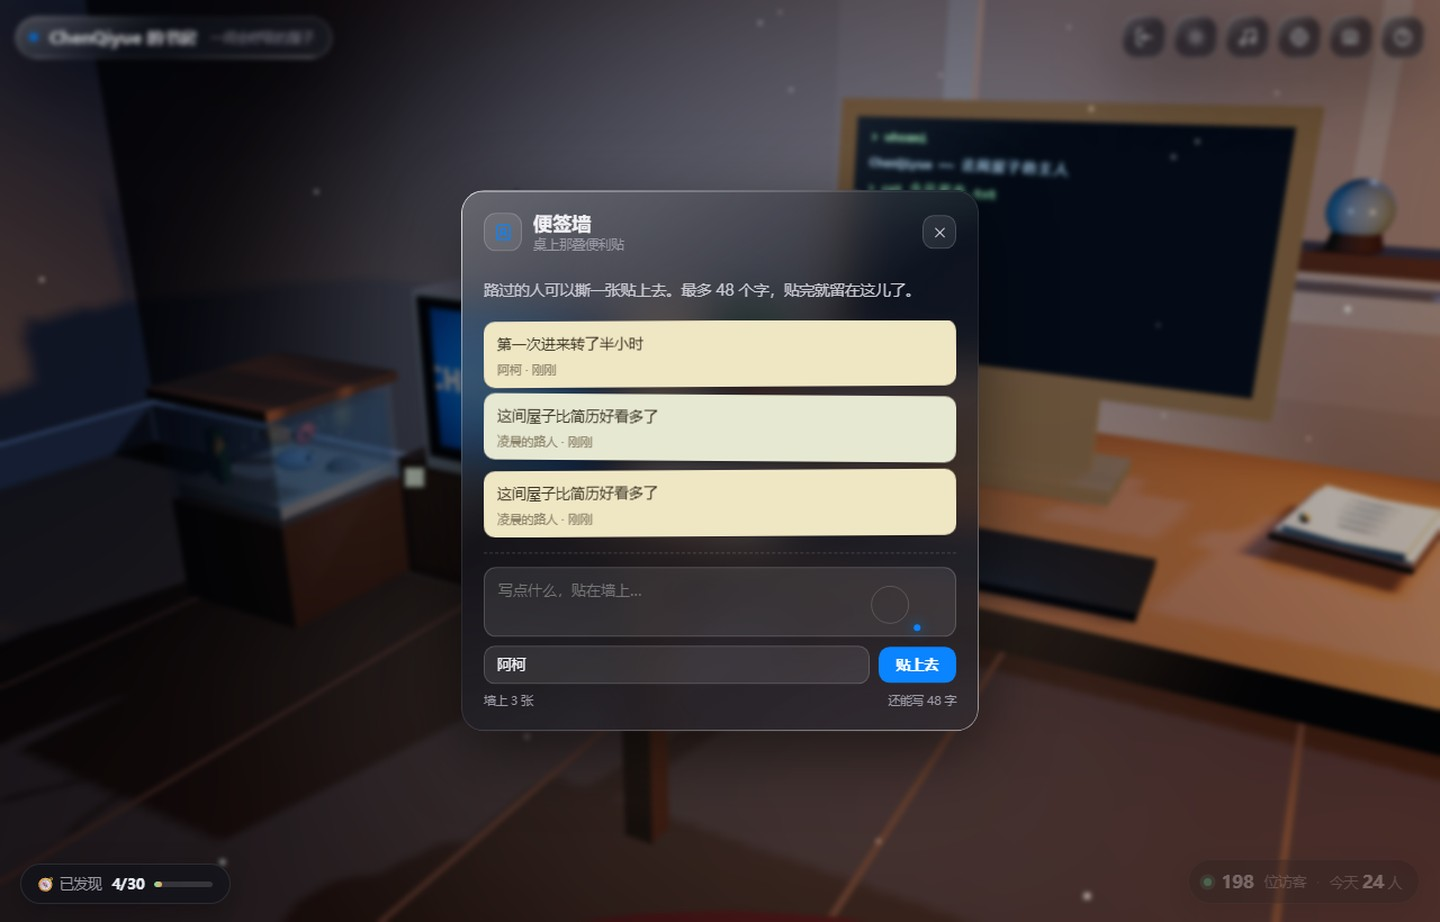
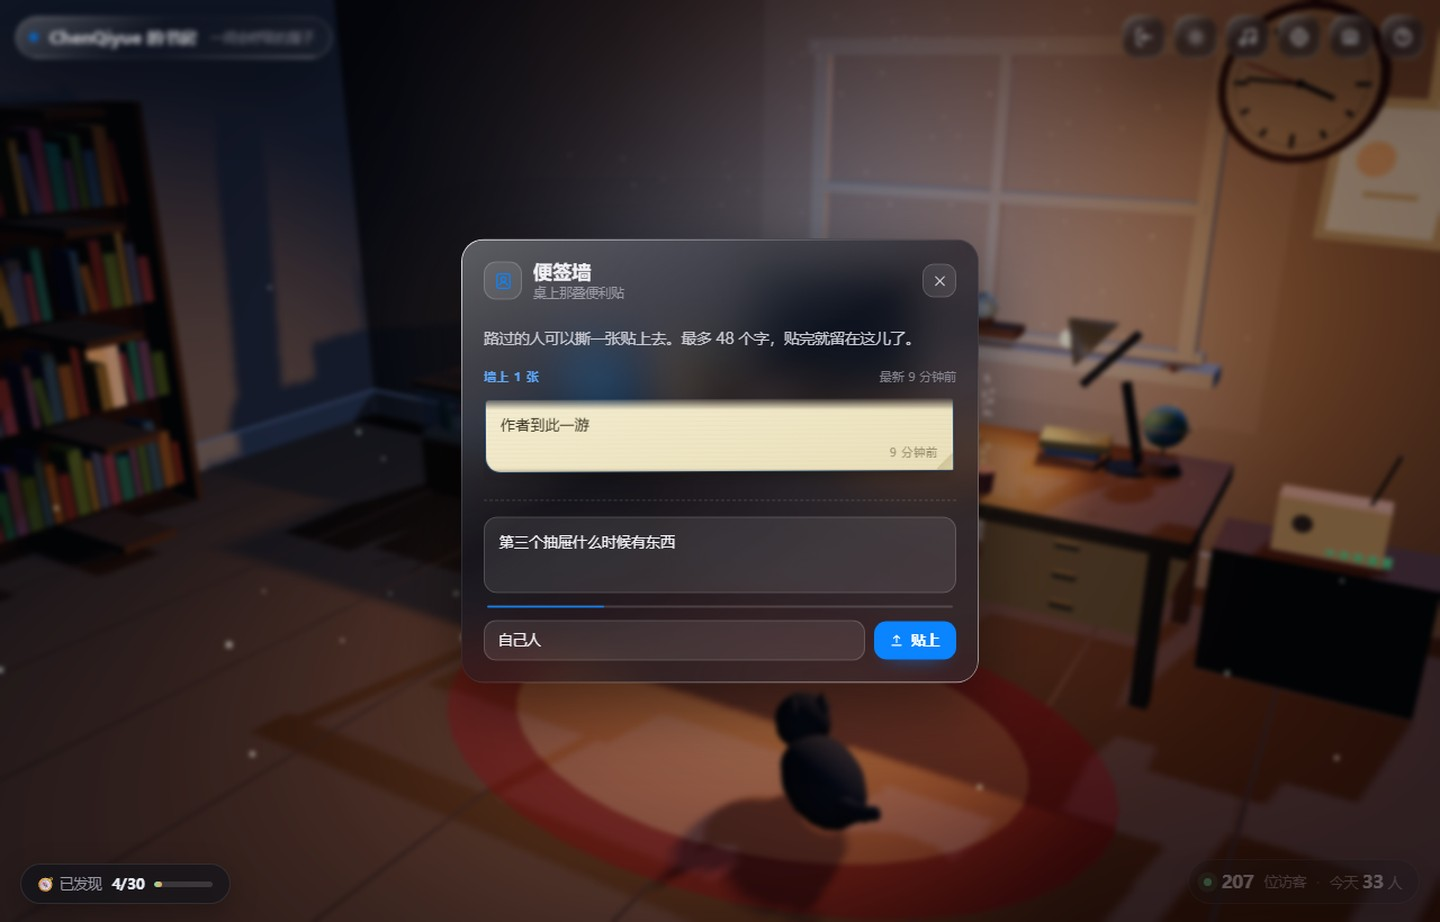
Rebuild the note wall
Fix the bug that made a saved note look like a network failure: the thank-you
path called a function that no longer existed, so every successful post fell
into the catch block. The wall itself now reads as paper - torn corner, faint
rule lines, name set small under the text - and the composer carries a fill
bar instead of a character counter.

Scrollbars are thinner and neutral, only taking colour on hover, and
index.html is served no-cache so a fresh deploy is never masked by an old page.

diff --git a/index.html b/index.html
@@ -135,7 +135,16 @@ button{font:inherit; color:inherit; background:none; border:0; cursor:pointer;}
 }
 #panel-close:hover{background:var(--ctl-hi); transform:rotate(90deg);}
 #panel-close svg{width:13px; height:13px; stroke:var(--ink-soft); stroke-width:2; fill:none; stroke-linecap:round;}
-#panel-flip{perspective:900px; overflow:hidden auto; padding:10px 20px 20px; scrollbar-width:thin;}
+#panel-flip{
+  perspective:900px; overflow:hidden auto; padding:10px 20px 20px;
+  scrollbar-width:thin; scrollbar-color:var(--ctl-line) transparent;
+  -webkit-mask-image:linear-gradient(180deg,transparent 0,#000 8px,#000 calc(100% - 8px),transparent 100%);
+  mask-image:linear-gradient(180deg,transparent 0,#000 8px,#000 calc(100% - 8px),transparent 100%);
+}
+#panel-flip::-webkit-scrollbar{width:6px;}
+#panel-flip::-webkit-scrollbar-track{background:transparent;}
+#panel-flip::-webkit-scrollbar-thumb{background:var(--ctl-line); border-radius:99px;}
+#panel-flip::-webkit-scrollbar-thumb:hover{background:var(--muted);}
 #panel-body{transform-origin:50% 0; transition:transform .32s cubic-bezier(.4,0,.2,1), opacity .32s;}
 #panel-flip.flip-out #panel-body{transform:rotateX(-72deg); opacity:0;}
 #panel-flip.flip-in #panel-body{animation:flipIn .38s cubic-bezier(.22,1,.36,1);}
@@ -172,36 +181,100 @@ button{font:inherit; color:inherit; background:none; border:0; cursor:pointer;}
 .book em{font-style:normal; color:var(--accent-ink); font-weight:600; flex:0 0 auto;}
 .book span{color:var(--ink-soft); font-size:12px; margin-left:auto; text-align:right;}
 /* 便签墙 */
-.note-list{display:flex; flex-direction:column; gap:8px; margin:10px 0 14px; max-height:34vh; overflow-y:auto; -webkit-overflow-scrolling:touch;}
+.nw-stat{display:flex; align-items:center; gap:8px; margin:0 0 11px; font-size:10.5px;
+  letter-spacing:.14em; text-transform:uppercase; color:var(--muted);}
+.nw-stat b{color:var(--accent-ink); font-weight:600; letter-spacing:.08em;}
+.nw-stat i{font-style:normal; margin-left:auto; text-transform:none; letter-spacing:.04em; opacity:.8;}
+.nw-wall{
+  position:relative; margin:0 0 14px; padding:2px 3px 2px 2px;
+  max-height:min(32vh,215px); overflow-y:auto; overscroll-behavior:contain;
+  scrollbar-width:thin; scrollbar-color:rgba(140,140,160,.35) transparent;
+  -webkit-mask-image:linear-gradient(180deg,transparent 0,#000 11px,#000 calc(100% - 14px),transparent 100%);
+  mask-image:linear-gradient(180deg,transparent 0,#000 11px,#000 calc(100% - 14px),transparent 100%);
+}
+.nw-wall::before{content:""; position:absolute; inset:0 6px 0 0; pointer-events:none; border-radius:8px;
+  box-shadow:inset 0 12px 14px -14px rgba(0,0,0,.55), inset 0 -12px 14px -14px rgba(0,0,0,.45);}
+.nw-wall::-webkit-scrollbar{width:6px;}
+.nw-wall::-webkit-scrollbar-track{background:transparent;}
+.nw-wall::-webkit-scrollbar-thumb{background:rgba(140,140,160,.32); border-radius:99px;}
+.nw-wall::-webkit-scrollbar-thumb:hover{background:rgba(140,140,160,.6);}
+
 .note-card{
-  padding:10px 12px 9px; border-radius:10px; background:#efe6c4; color:#3a3323;
-  box-shadow:0 1px 0 rgba(0,0,0,.06), 0 6px 14px -10px rgba(0,0,0,.5);
-  transform:rotate(-.35deg); animation:noteIn .32s cubic-bezier(.34,1.4,.64,1) both;
+  position:relative; padding:11px 13px 9px; margin:0 0 9px; border-radius:3px 3px 3px 13px;
+  background:
+    repeating-linear-gradient(0deg, rgba(150,132,80,.045) 0 1px, transparent 1px 4px),
+    linear-gradient(167deg,#f4ecd0 0%,#e9dfb9 100%);
+  box-shadow:0 1px 0 rgba(255,255,255,.75) inset, 0 1px 2px rgba(24,20,8,.10),
+             0 14px 26px -20px rgba(24,20,8,.95);
+  color:#3b3423; transform:rotate(-.3deg);
+  animation:nwIn .44s cubic-bezier(.22,1,.36,1) both;
+  transition:transform .26s cubic-bezier(.34,1.4,.64,1), box-shadow .26s;
 }
-.note-card:nth-child(even){transform:rotate(.4deg); background:#e6e8d2;}
-.note-card b{display:block; font-size:13px; line-height:1.6; font-weight:500; word-break:break-word;}
-.note-card span{display:block; font-size:10.5px; color:#8a8168; margin-top:5px; letter-spacing:.02em;}
-@keyframes noteIn{from{opacity:0; transform:translateY(6px) rotate(-1deg) scale(.97);}}
-.note-empty{font-size:12.5px; color:var(--muted); padding:14px 4px; text-align:center;}
-.note-form{display:flex; flex-direction:column; gap:8px; padding-top:12px; border-top:1px dashed var(--ctl-line);}
-.note-form textarea{
-  width:100%; min-height:56px; resize:none; padding:10px 12px; border-radius:11px; font:inherit; font-size:13px;
-  background:var(--ctl); color:var(--ink); border:1px solid var(--ctl-line); outline:none; line-height:1.55;
+.note-card:hover{
+  transform:rotate(0deg) translateY(-1px);
+  box-shadow:0 1px 0 rgba(255,255,255,.8) inset, 0 1px 2px rgba(24,20,8,.12),
+             0 18px 30px -20px rgba(24,20,8,.9);
 }
-.note-form textarea:focus{border-color:var(--accent);}
-.note-row{display:flex; gap:8px; align-items:center;}
-.note-row input{
-  flex:1 1 auto; min-width:0; padding:8px 11px; border-radius:10px; font:inherit; font-size:12.5px;
+.note-card:nth-child(even){
+  transform:rotate(.32deg);
+  background:
+    repeating-linear-gradient(0deg, rgba(150,132,80,.045) 0 1px, transparent 1px 4px),
+    linear-gradient(167deg,#f2f0da 0%,#e5e4c2 100%);
+}
+.note-card:nth-child(3n){transform:rotate(-.55deg);}
+.note-card::after{
+  content:""; position:absolute; right:0; bottom:0; width:15px; height:15px; border-radius:0 0 0 3px;
+  background:linear-gradient(135deg, rgba(255,255,255,0) 45%, rgba(186,172,124,.5) 50%, rgba(219,208,164,.98) 100%);
+}
+.note-card b{display:block; font-size:13px; line-height:1.72; font-weight:500; letter-spacing:.01em; word-break:break-word;}
+.nc-meta{display:flex; align-items:center; gap:7px; margin-top:8px; font-size:10px;
+  letter-spacing:.09em; color:#8d8465;}
+.nc-meta u{text-decoration:none; border-bottom:1px solid rgba(141,132,101,.42); padding-bottom:1px; max-width:60%; overflow:hidden; text-overflow:ellipsis; white-space:nowrap;}
+.nc-meta em{font-style:normal; margin-left:auto; opacity:.85;}
+.note-card.is-new{box-shadow:0 0 0 1px rgba(10,132,255,.34), 0 1px 2px rgba(24,20,8,.12), 0 16px 28px -20px rgba(24,20,8,.95);}
+@keyframes nwIn{from{opacity:0; transform:translateY(11px) rotate(-1.4deg) scale(.97);}}
+
+.nw-empty{display:flex; flex-direction:column; align-items:center; gap:9px; padding:28px 12px 30px;
+  border:1px dashed var(--ctl-line); border-radius:13px; background:var(--ctl);
+  color:var(--muted); font-size:12.5px; letter-spacing:.02em;}
+.nw-empty svg{width:26px; height:26px; stroke:var(--muted); fill:none; stroke-width:1.3; opacity:.6;}
+.nw-retry{
+  margin-top:2px; padding:6px 14px; border-radius:99px; font:inherit; font-size:11.5px; cursor:pointer;
+  background:var(--ctl-hi); color:var(--ink-soft); border:1px solid var(--ctl-line);
+  transition:border-color .2s, color .2s;
+}
+.nw-retry:hover{border-color:var(--accent); color:var(--accent-ink);}
+
+.nw-form{padding-top:14px; border-top:1px dashed var(--ctl-line);}
+.nw-field{position:relative;}
+.nw-field textarea{
+  width:100%; min-height:58px; resize:none; padding:11px 13px 13px; border-radius:12px;
+  font:inherit; font-size:13px; line-height:1.62; background:var(--ctl); color:var(--ink);
+  border:1px solid var(--ctl-line); outline:none;
+  transition:border-color .2s, background-color .2s;
+}
+.nw-field textarea:focus{border-color:var(--accent); background:var(--ctl-hi);}
+.nw-bar{height:2px; margin:7px 3px 0; border-radius:99px; background:var(--ctl-line); overflow:hidden;}
+.nw-bar i{display:block; height:100%; width:0; border-radius:99px; background:var(--accent);
+  transition:width .22s cubic-bezier(.4,0,.2,1), background-color .2s;}
+.nw-row{display:flex; gap:8px; align-items:center; margin-top:11px;}
+.nw-row input{
+  flex:1 1 auto; min-width:0; padding:9px 12px; border-radius:11px; font:inherit; font-size:12.5px;
   background:var(--ctl); color:var(--ink); border:1px solid var(--ctl-line); outline:none;
+  transition:border-color .2s;
 }
-.note-row input:focus{border-color:var(--accent);}
-.note-row button{
-  flex:0 0 auto; padding:8px 16px; border-radius:10px; font:inherit; font-size:12.5px; font-weight:600; cursor:pointer;
-  background:var(--accent); color:#fff; border:0; transition:transform .18s, opacity .2s;
+.nw-row input:focus{border-color:var(--accent);}
+.nw-send{
+  flex:0 0 auto; display:inline-flex; align-items:center; gap:6px; padding:9px 15px 9px 13px;
+  border-radius:11px; font:inherit; font-size:12.5px; font-weight:600; cursor:pointer;
+  background:var(--accent); color:#fff; border:0;
+  box-shadow:0 8px 18px -12px var(--accent);
+  transition:transform .18s cubic-bezier(.34,1.56,.64,1), opacity .2s, box-shadow .2s;
 }
-.note-row button:hover{transform:translateY(-1px);}
-.note-row button:disabled{opacity:.5; cursor:default; transform:none;}
-.note-foot{display:flex; justify-content:space-between; font-size:10.5px; color:var(--muted);}
+.nw-send svg{width:14px; height:14px; fill:none; stroke:#fff; stroke-width:1.9; stroke-linecap:round; stroke-linejoin:round;}
+.nw-send:hover{transform:translateY(-1px); box-shadow:0 12px 22px -13px var(--accent);}
+.nw-send:active{transform:translateY(0) scale(.98);}
+.nw-send:disabled{opacity:.45; cursor:default; transform:none; box-shadow:none;}
 /* 抽屉 */
 .drw{display:block; margin:0 0 12px; border-radius:12px; overflow:hidden; background:var(--ctl); border:1px solid var(--ctl-line);}
 .drw img{display:block; width:100%; height:auto; background:#0b0d12;}
@@ -695,13 +768,16 @@ body.warp-back #site{
 @keyframes slide{to{transform:translateX(-50%);}}
 
 /* ---------- 自定义滚动条 ---------- */
-#site::-webkit-scrollbar{width:10px;}
+#site{scrollbar-width:thin; scrollbar-color:rgba(128,128,148,.30) transparent;}
+#site::-webkit-scrollbar{width:11px;}
 #site::-webkit-scrollbar-track{background:transparent;}
 #site::-webkit-scrollbar-thumb{
-  background:linear-gradient(180deg, rgba(10,132,255,.55), rgba(255,176,102,.5));
-  border-radius:99px; border:3px solid transparent; background-clip:content-box;
+  background:linear-gradient(180deg, rgba(128,128,148,.34), rgba(128,128,148,.24));
+  border-radius:99px; border:4px solid transparent; background-clip:content-box;
+  transition:background .2s;
 }
-#site::-webkit-scrollbar-thumb:hover{background:linear-gradient(180deg, rgba(10,132,255,.85), rgba(255,176,102,.8)); background-clip:content-box;}
+#site:hover::-webkit-scrollbar-thumb{background:linear-gradient(180deg, rgba(128,128,148,.46), rgba(128,128,148,.32)); background-clip:content-box;}
+#site::-webkit-scrollbar-thumb:hover{background:linear-gradient(180deg, rgba(10,132,255,.55), rgba(255,176,102,.5)); background-clip:content-box;}
 
 /* ---------- 门口"镜头前置"：滚到大门时门变大变亮 ---------- */
 #door-big{
@@ -2319,14 +2395,17 @@ const PANELS={
     title:"便签墙", sub:"桌上那叠便利贴", ico:ICONS.about,
     html(){
       return `<p class="p-lead">路过的人可以撕一张贴上去。最多 48 个字，贴完就留在这儿了。</p>
-        <div class="note-list" id="note-list"><div class="note-empty">正在把墙上的便签取下来…</div></div>
-        <div class="note-form">
-          <textarea id="note-text" maxlength="48" placeholder="写点什么，贴在墙上…"></textarea>
-          <div class="note-row">
-            <input id="note-name" maxlength="12" placeholder="留个名字（可不填）">
-            <button id="note-send">贴上去</button>
+        <div class="nw-stat"><b id="note-total">墙上 —</b><i id="note-latest"></i></div>
+        <div class="nw-wall" id="note-list"></div>
+        <div class="nw-form">
+          <div class="nw-field">
+            <textarea id="note-text" maxlength="48" placeholder="写点什么，贴在墙上…"></textarea>
+            <div class="nw-bar"><i id="note-bar"></i></div>
           </div>
-          <div class="note-foot"><span id="note-total"></span><span id="note-count"></span></div>
+          <div class="nw-row">
+            <input id="note-name" maxlength="12" placeholder="署名（可不填）">
+            <button class="nw-send" id="note-send"><svg viewBox="0 0 24 24"><path d="M12 15.5V4.5M7.5 9L12 4.5 16.5 9M5 19.5h14"/></svg>贴上</button>
+          </div>
         </div>`;
     },
     after(){ notesWire(); }
@@ -2509,31 +2588,51 @@ const noteTime=(ts)=>{
   if(diff<86400*30) return Math.floor(diff/86400)+" 天前";
   return `${d.getFullYear()}.${d.getMonth()+1}.${d.getDate()}`;
 };
-function noteCard(n){
-  const el=document.createElement("div"); el.className="note-card";
+function noteCard(n, isNew){
+  const el=document.createElement("div"); el.className="note-card"+(isNew?" is-new":"");
   const b=document.createElement("b"); b.textContent=n.text;
-  const sp=document.createElement("span");
-  sp.textContent=(n.name?n.name+" · ":"")+noteTime(n.at);
-  el.appendChild(b); el.appendChild(sp); return el;
+  const meta=document.createElement("span"); meta.className="nc-meta";
+  if(n.name){ const u=document.createElement("u"); u.textContent=n.name; meta.appendChild(u); }
+  const em=document.createElement("em"); em.textContent=noteTime(n.at); meta.appendChild(em);
+  el.appendChild(b); el.appendChild(meta);
+  return el;
 }
 function notesWire(){
   const list=$("#note-list"), text=$("#note-text"), name=$("#note-name"),
-        send=$("#note-send"), count=$("#note-count"), total=$("#note-total");
+        send=$("#note-send"), bar=$("#note-bar"), total=$("#note-total"), latest=$("#note-latest");
   if(!list) return;
+  const empty=()=>{
+    list.innerHTML='<div class="nw-empty"><svg viewBox="0 0 24 24"><path d="M7 3.5h10a1.5 1.5 0 0 1 1.5 1.5v14L12 16l-6.5 3V5A1.5 1.5 0 0 1 7 3.5Z"/></svg><span>墙上还是空的，第一张留给你</span></div>';
+  };
   const setList=(notes)=>{
     list.innerHTML="";
-    if(!notes.length){ const e=document.createElement("div"); e.className="note-empty";
-      e.textContent="墙上还是空的。第一张留给你。"; list.appendChild(e); return; }
-    notes.forEach(n=>list.appendChild(noteCard(n)));
+    if(!notes.length){ empty(); return; }
+    notes.forEach((n,i)=>{
+      const el=noteCard(n,i===0);
+      el.style.animationDelay=Math.min(i*45,360)+"ms";
+      list.appendChild(el);
+    });
+  };
+  const setTotal=(n,ts)=>{
+    if(total) total.textContent="墙上 "+n+" 张";
+    if(latest) latest.textContent = ts ? "最新 "+noteTime(ts) : "";
   };
   fetch(NOTE_API+"?limit=40").then(r=>r.json()).then(d=>{
     noteTotal=d.total||0;
-    setList(d.notes||[]);
-    if(total) total.textContent="墙上 "+noteTotal+" 张";
+    const arr=d.notes||[];
+    setList(arr);
+    setTotal(noteTotal, arr.length?arr[0].at:0);
   }).catch(()=>{
-    list.innerHTML='<div class="note-empty">留言板连不上，先看看屋子吧。</div>';
+    list.innerHTML='<div class="nw-empty"><svg viewBox="0 0 24 24"><path d="M12 3.5v10M12 17.5v.01"/></svg>'
+      +'<span>留言板连不上，先看看屋子吧</span>'
+      +'<button class="nw-retry" id="note-retry">再试一次</button></div>';
+    if(total) total.textContent="墙上 —";
+    const rb=$("#note-retry"); if(rb) rb.addEventListener("click",()=>{ setList([]); notesWire(); });
   });
-  const left=()=>{ if(count) count.textContent="还能写 "+(48-(text.value||"").length)+" 字"; };
+  const left=()=>{
+    const n=(text.value||"").length, pct=Math.min(100, n/48*100);
+    if(bar){ bar.style.width=pct+"%"; bar.style.background = n>40 ? "var(--warn,#e0863b)" : "var(--accent)"; }
+  };
   text.addEventListener("input",left); left();
   const post=()=>{
     const t=(text.value||"").trim();
@@ -2544,14 +2643,17 @@ function notesWire(){
       .then(r=>r.json())
       .then(d=>{
         if(d.error){ toast(d.error); send.disabled=false; return; }
-        Audio8.flip();
-        if(list.querySelector(".note-empty")) list.innerHTML="";
-        list.insertBefore(noteCard(d.note),list.firstChild);
+        try { Audio8.flip(); } catch(e) {}
+        if(list.querySelector(".nw-empty")) list.innerHTML="";
+        const el=noteCard(d.note,true);
+        list.insertBefore(el,list.firstChild);
+        list.querySelectorAll(".note-card").forEach((c,i)=>{ if(i>0) c.classList.remove("is-new"); });
         text.value=""; left(); send.disabled=false;
         toast("贴上了，谢谢你来");
         noteTotal=d.total||(noteTotal+1);
-        if(total) total.textContent="墙上 "+noteTotal+" 张";
+        setTotal(noteTotal, d.note.at);
         try { fnPaintNote(d.note.text); } catch(e) {}
+        list.scrollTop=0;
       })
       .catch(()=>{ toast("没贴上，网络好像不太顺"); send.disabled=false; });
   };
